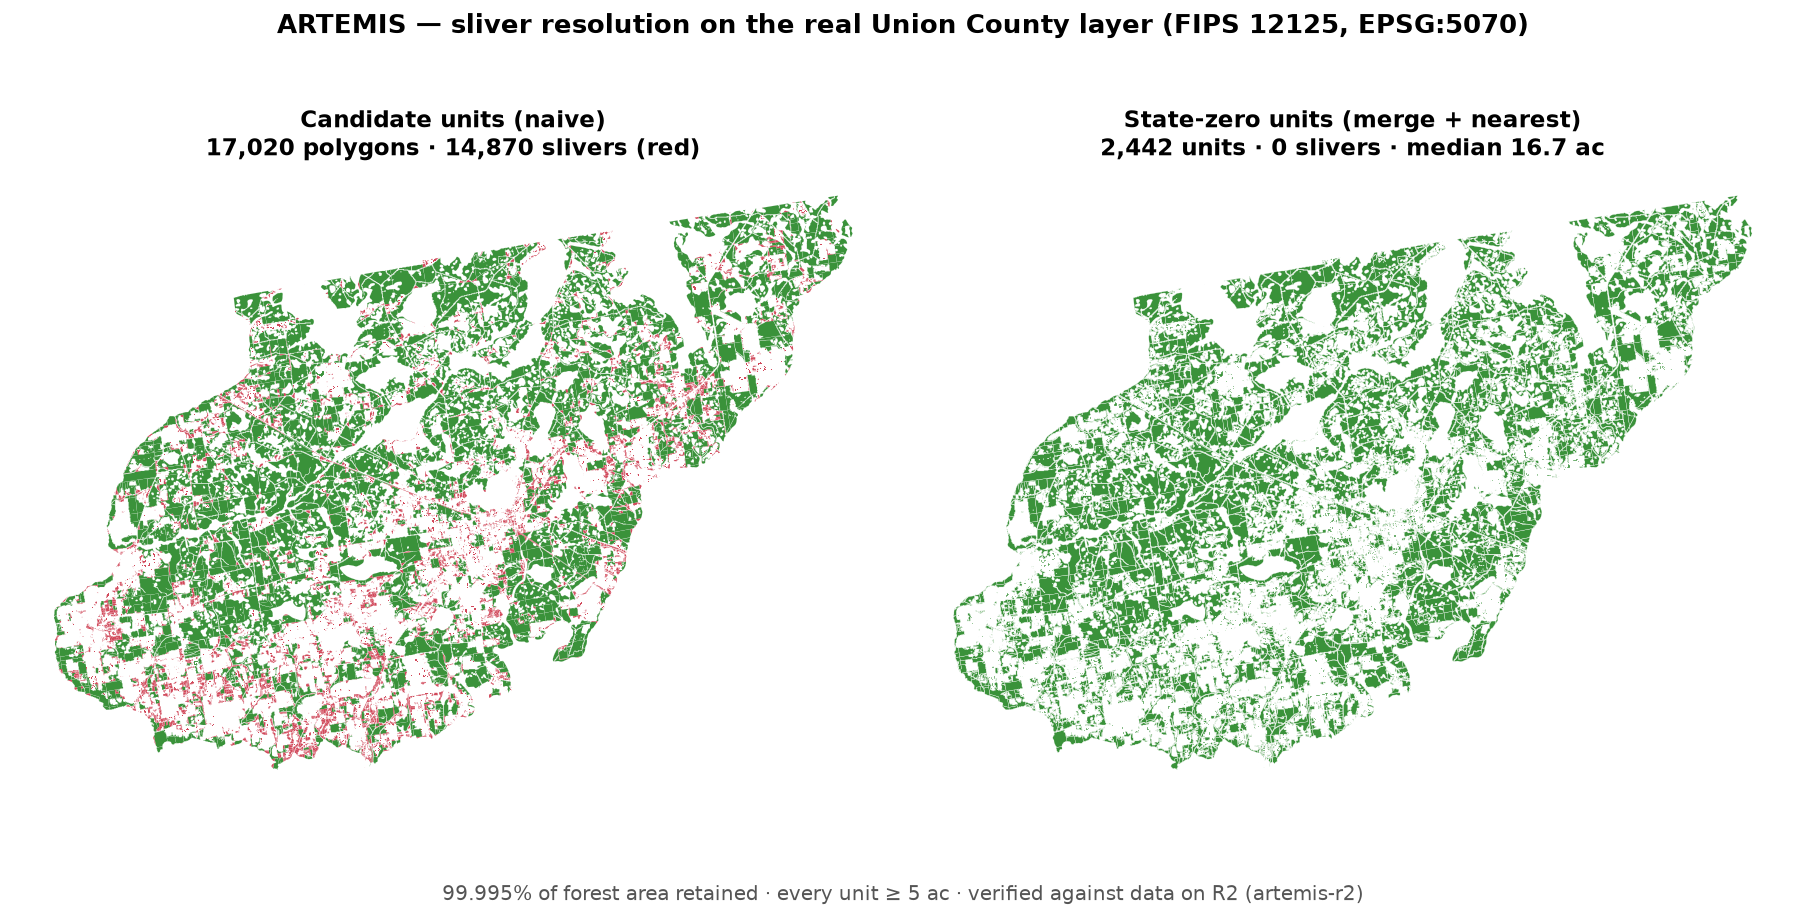
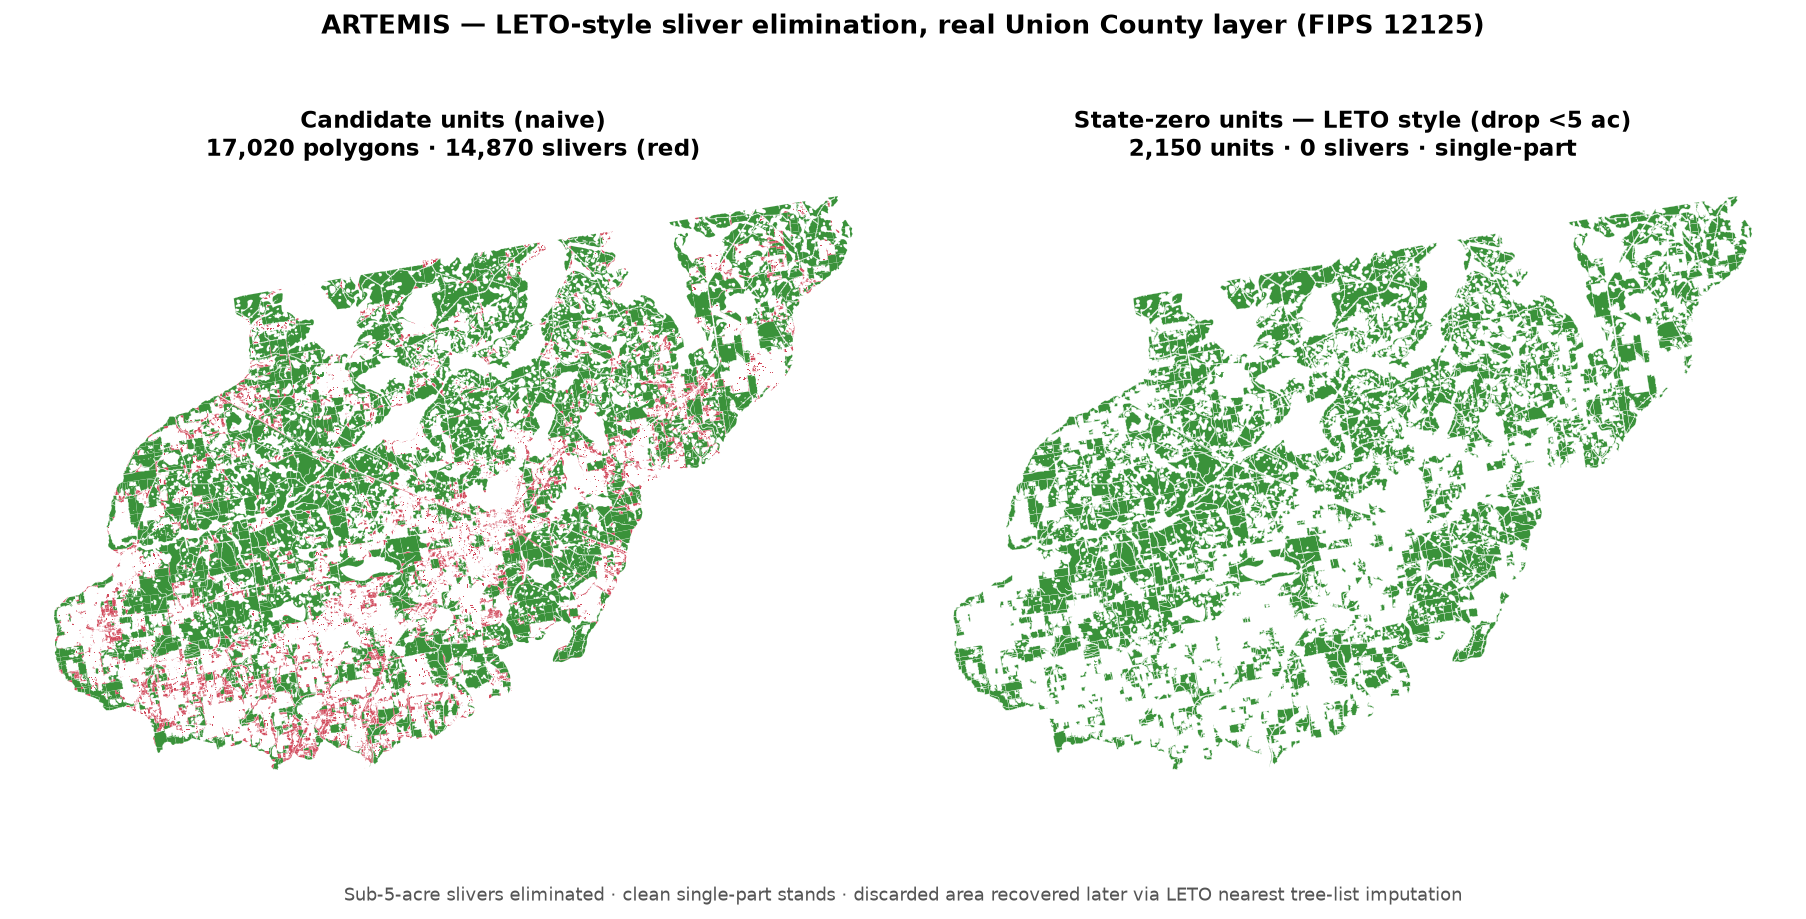
Adopt LETO-style drop as the default sliver policy
Per direction, follow the LETO delineation script: the default policy is now
"drop" (multipart->singlepart, then eliminate sub-5-acre slivers), giving clean
single-part state-zero stands. On the real Union County layer: 17,020 -> 2,150
units, 0 slivers, median 15.2 ac, no multipart. The ~14% area under dropped
slivers is recovered downstream via LETO's nearest-runnable tree-list imputation
(GenerateNearTable), a separate FVS-input step. The area-conserving merge+nearest
policy stays available via --policy merge. Updated default, CLI, tests, and the
real-data verification note + figure.

Claude-Session: https://claude.ai/code/session_0166n82uFETYqSeGgBbztYAf

diff --git a/pipeline/s3_management/sliver_merge.py b/pipeline/s3_management/sliver_merge.py
@@ -6,23 +6,26 @@ map where every polygon is a single, operationally runnable stand. This is the s
 the harvest scheduler blocks on: FVS simulates *stands*, so every management unit fed
 to it must be one contiguous polygon at or above a minimum operational size.
 
-Procedure (adapted from the LETO ArcGIS prototype, `scripts/LETO.V1.1.txt`):
+Procedure (following the LETO ArcGIS prototype, `scripts/LETO.V1.1.txt`, function
+``multipart_to_singlepart_and_delete_small``):
 
     1. Explode multipart polygons to singlepart
        (LETO: ``MultipartToSinglepart``).
     2. Resolve polygons below the minimum stand size
        (LETO threshold: **5 acres**), via one of two policies:
-         - ``"merge"``  — dissolve each sliver into the adjacent unit with which it
-                          shares the longest boundary (ArcGIS "Eliminate" semantics).
-                          Preserves forest area and leaves no gaps → the default.
-         - ``"drop"``   — delete sub-threshold polygons, matching the LETO prototype
-                          exactly. Faster, but discards forest area and can leave gaps.
+         - ``"drop"``   — delete sub-threshold polygons, exactly as the LETO delineation
+                          script does. Clean single-part geometry. **This is the default:**
+                          it is LETO's own sliver-elimination step for the state-zero map.
+         - ``"merge"``  — dissolve each sliver into a neighbouring unit (longest shared
+                          boundary, then nearest-unit fallback). Conserves forest area and
+                          leaves no gaps, but produces spatially multipart units. Available
+                          as an area-conserving alternative.
 
-**Why merge is the default (decision for review):** LETO's prototype *deletes* sub-5-acre
-pieces. For a complete, gap-free state-zero unit map that conserves the modelled forest
-area, merging slivers into their best neighbour is preferred; ``drop`` reproduces the
-prototype's behaviour when that is wanted. The 5-acre threshold is carried over from LETO
-unchanged.
+**Default is ``drop`` (LETO delineation style).** LETO eliminates sub-5-acre pieces at
+delineation time; the forest they cover is picked up downstream by LETO's *second* script,
+which imputes tree lists for tree-less/edge units from the nearest runnable unit
+(``GenerateNearTable``) — a separate FVS-input step, not this module. The 5-acre threshold
+is carried over from LETO unchanged.
 
 All geometry work assumes a **projected CRS in metres** (ARTEMIS uses EPSG:5070); a
 geographic CRS raises, because area/length in degrees is meaningless here.
@@ -248,7 +251,7 @@ def _refresh_area_columns(gdf: gpd.GeoDataFrame) -> gpd.GeoDataFrame:
 
 def resolve_slivers(
     gdf: gpd.GeoDataFrame,
-    policy: str = "merge",
+    policy: str = "drop",
     min_acres: float = MIN_STAND_ACRES,
     explode: bool = True,
     drop_orphans: bool = False,
@@ -258,9 +261,9 @@ def resolve_slivers(
     Full sliver-resolution procedure: explode multipart → apply policy.
 
     policy:
+        "drop"  — delete sub-threshold polygons (LETO delineation behaviour). Default.
         "merge" — dissolve slivers into a neighbouring unit (longest shared boundary, then
-                  nearest-unit fallback for isolated pieces). Default; conserves area.
-        "drop"  — delete sub-threshold polygons (LETO prototype behaviour).
+                  nearest-unit fallback for isolated pieces). Area-conserving alternative.
     """
     if policy not in {"merge", "drop"}:
         raise ValueError(f"policy must be 'merge' or 'drop', got {policy!r}")
@@ -287,7 +290,8 @@ def main() -> None:
     parser.add_argument("--input", type=Path, required=True, help="Candidate-unit GeoPackage/GPKG")
     parser.add_argument("--output", type=Path, required=True, help="Output GeoPackage")
     parser.add_argument("--layer", type=str, default=None, help="Input layer name (optional)")
-    parser.add_argument("--policy", choices=["merge", "drop"], default="merge")
+    parser.add_argument("--policy", choices=["merge", "drop"], default="drop",
+                        help="drop = LETO sliver elimination (default); merge = area-conserving")
     parser.add_argument("--min-acres", type=float, default=MIN_STAND_ACRES)
     parser.add_argument("--drop-orphans", action="store_true",
                         help="Drop any slivers that still cannot be merged (merge policy only)")

diff --git a/tests/test_s3_sliver_merge.py b/tests/test_s3_sliver_merge.py
@@ -151,6 +151,18 @@ def test_resolve_slivers_explodes_then_applies_policy():
     assert "area_acres" in result.columns
 
 
+def test_resolve_slivers_defaults_to_leto_drop():
+    # Default policy is LETO-style drop: sub-5-acre polygons are eliminated, geometry stays
+    # single-part (no multipart merge artefacts).
+    big = box(0, 0, 300, 300)        # ~22 ac
+    sliver = box(400, 400, 450, 450)  # 0.62 ac, isolated
+    gdf = gpd.GeoDataFrame({"unit_id": ["A", "S"]}, geometry=[big, sliver], crs=CRS)
+    result = resolve_slivers(gdf)  # no policy -> drop
+    assert list(result["unit_id"]) == ["A"]
+    assert not flag_slivers(result, min_acres=5.0).any()
+    assert (result.geometry.geom_type == "Polygon").all()
+
+
 def test_resolve_slivers_rejects_unknown_policy():
     gdf = gpd.GeoDataFrame({"unit_id": ["A"]}, geometry=[box(0, 0, 300, 300)], crs=CRS)
     with pytest.raises(ValueError, match="policy"):

diff --git a/weekly-summary/2026-07-20/real-data-verification.md b/weekly-summary/2026-07-20/real-data-verification.md
@@ -39,22 +39,23 @@ the real Union County layer: **17,020 polygons, 14,870 slivers < 5 ac, 68,240 ac
 
 **Real data exposed a defect the synthetic tests could not:** shared-boundary merge alone
 left **6,716 residual slivers**, because the naive layer's stream/road/water erase separates
-thousands of fragments from every unit by a thin gap — they share no boundary. Fixed by
-adding a **nearest-unit fallback** (mirroring LETO's `GenerateNearTable` nearest-runnable
-assignment). Results on the real layer:
+thousands of fragments from every unit by a thin gap — they share no boundary. Results on
+the real layer for each candidate policy:
 
 | Policy | Units | Slivers left | Area retained | Notes |
 |---|--:|--:|--:|---|
+| **drop — LETO delineation (chosen default)** | **2,150** | **0** | **86.24%** | clean single-part; median 15.2 ac |
+| merge + nearest fallback | 2,442 | 0 | 99.995% | area-conserving but **64.6% multipart** |
 | shared-boundary merge only | 9,124 | 6,716 | 99.995% | incomplete |
-| **merge + nearest fallback** | **2,442** | **0** | **99.995%** | median 16.7 ac, min 5.02 ac; **64.6% multipart** |
-| drop (LETO prototype) | 2,150 | 0 | 86.24% | loses 9,390 ac; clean single-part geometry |
 
-Runtime: ~13 s for the full county. Figure: `sliver_resolution_union.png`.
+Figure: `sliver_resolution_union.png`.
 
-### Open question for review
-The nearest fallback makes the map **complete and area-conserving**, but **64.6% of units
-become multipart** (a main body plus detached pieces attached to the nearest unit). FVS
-treats a multipart unit as one stand, but it is spatially messy. Options to weigh:
-(a) accept multipart; (b) cap the nearest-attachment distance and drop the rest; (c) keep
-isolated pieces as their own units with borrowed attributes (LETO script-2 style);
-(d) drop (loses ~14% of area). Needs a call before this becomes the state-zero standard.
+### Decision (2026-07-21): follow the LETO style
+Per Chaz — **default policy is `drop`**, matching LETO's own delineation step
+(`multipart_to_singlepart_and_delete_small`): explode multipart, then eliminate sub-5-acre
+slivers, leaving clean single-part stands. The ~14% of area under those slivers is **not
+lost to the model** — it is recovered downstream by LETO's *second* script, which imputes
+tree lists for tree-less/edge units from the nearest runnable unit (`GenerateNearTable`), a
+separate FVS-input step still to be built. The area-conserving `merge` policy (with
+nearest-unit fallback) remains available via `--policy merge` for cases where a gap-free,
+area-conserving layer is wanted, at the cost of multipart units.